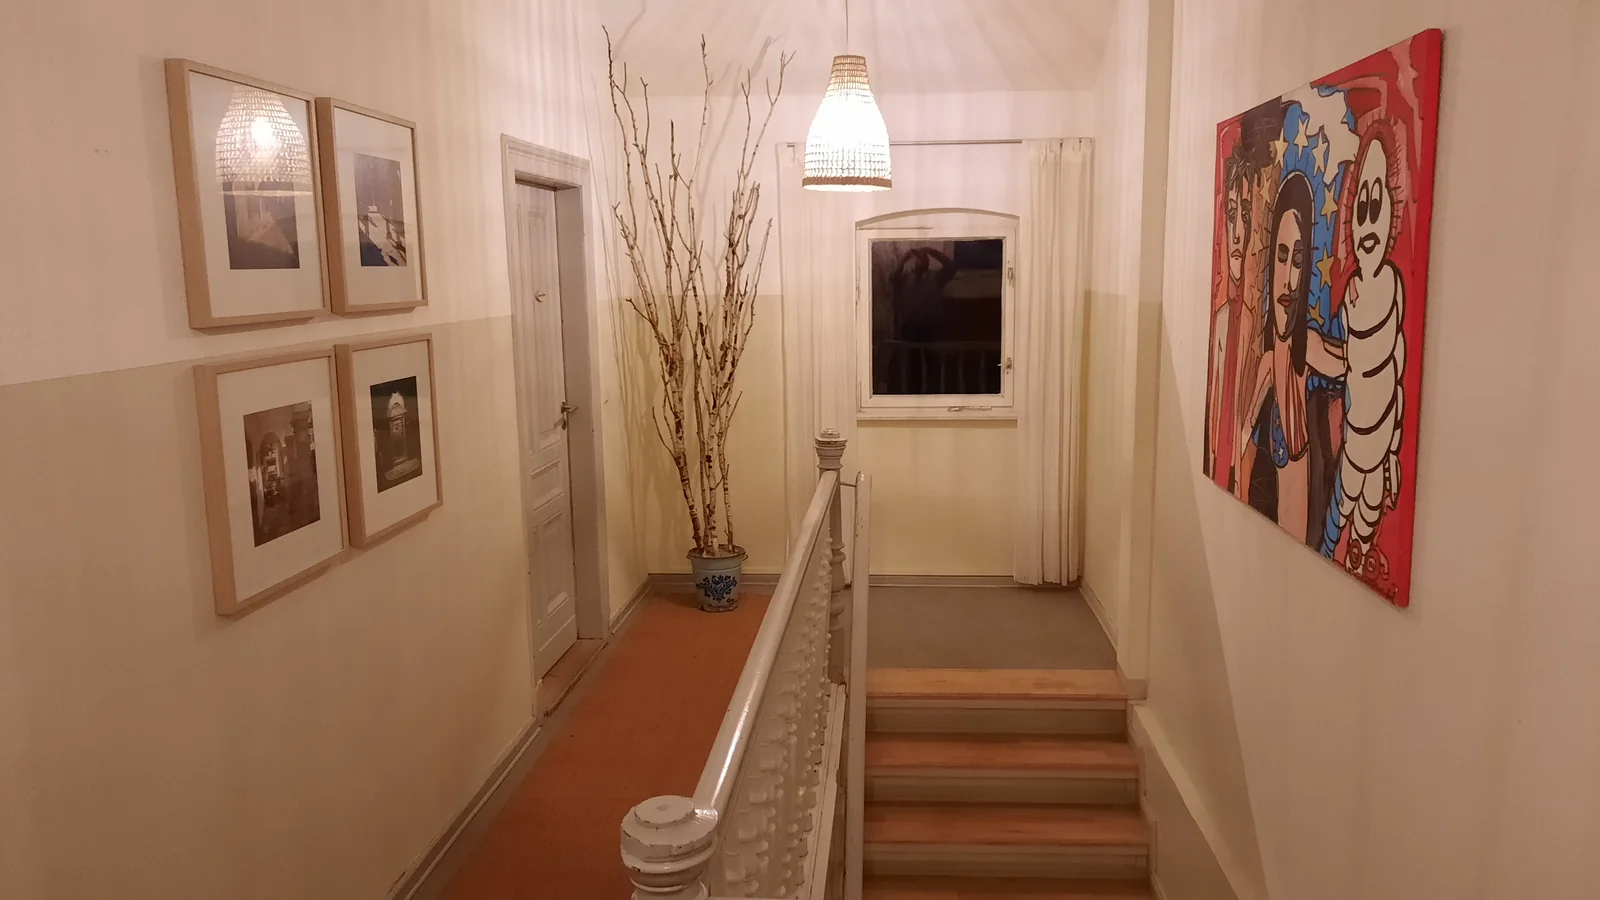
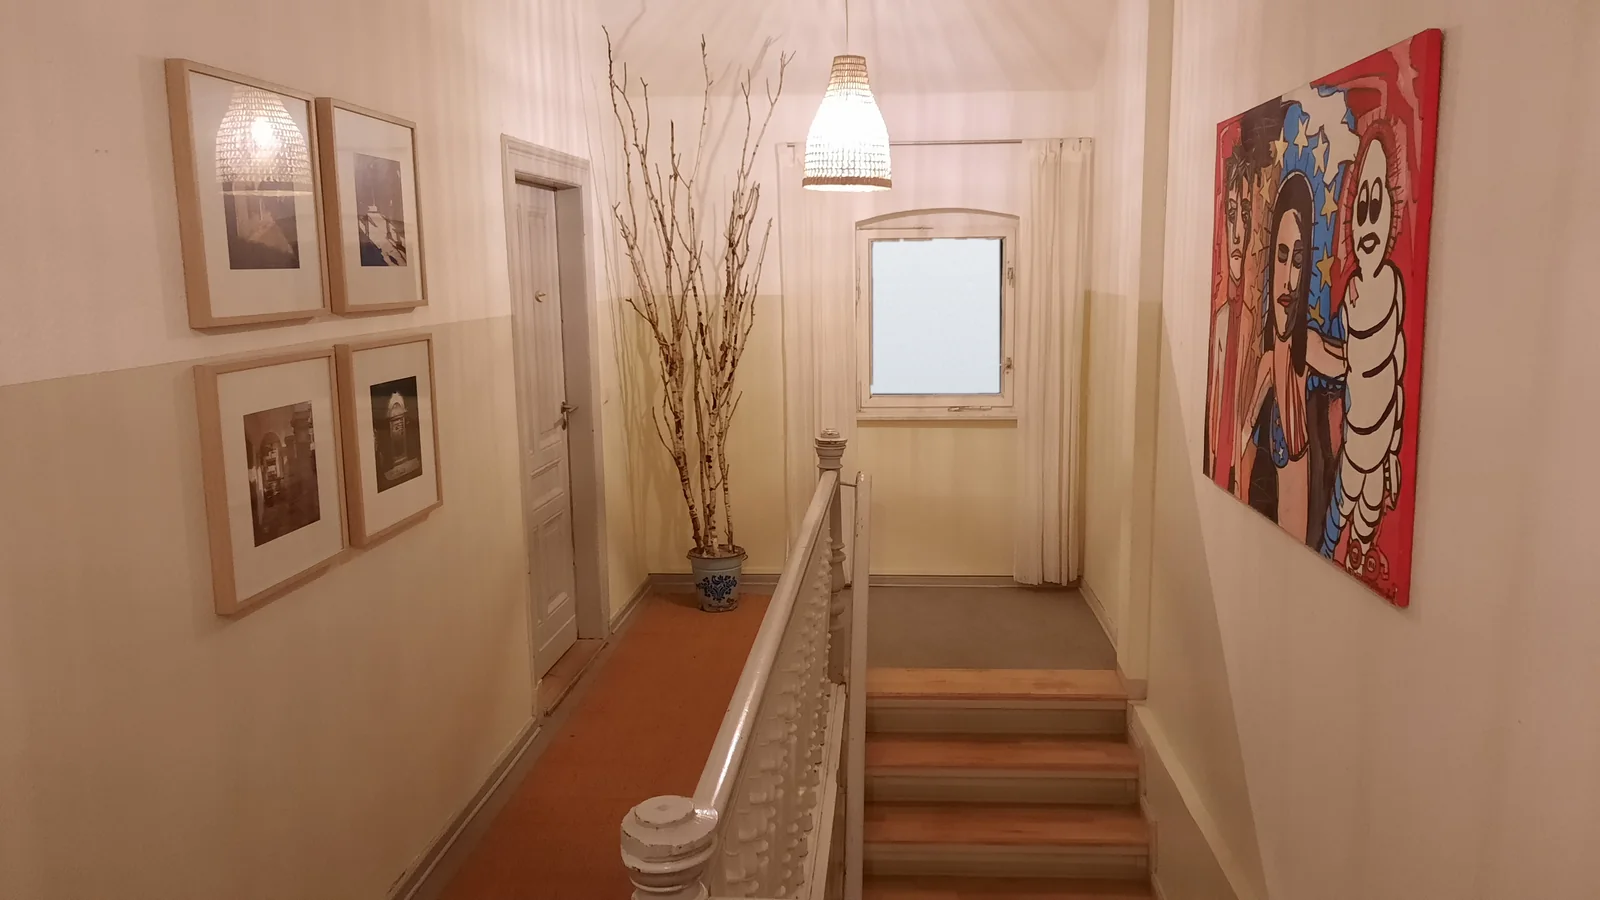
Fenster im Flurfoto aufgehellt, Suchmaschinen: Titel, Beschreibung, Suchwörter, Fragen-Abschnitt, strukturierte Daten
- Foto Treppe und Flur: Fensterglas von schwarz auf helles Tageslicht-Grau, Rahmen unverändert (#15)
- Titel und Beschreibung mit den wichtigsten Suchbegriffen, Meta-Keywords hinterlegt (#16)
- Neuer Abschnitt 06 Kurz gefragt mit sechs Fragen aus dem vorhandenen Material, Kontakt wird 07
- JSON-LD: RealEstateListing mit Adresse, Ausstattung und Angebot WE 8, FAQPage
- Englische Seite gleichgezogen, Sitemap-Datum aktualisiert

Closes #15, refs #16

Changed region(s): [[0.5312, 0.2489, 0.625, 0.4667]]

diff --git a/index.html b/index.html
@@ -3,15 +3,16 @@
 <head>
 <meta charset="utf-8">
 <meta name="viewport" content="width=device-width, initial-scale=1">
-<title>Gutshaus Kleinmenow – Wohnen in der Villa Meteor am Ziernsee</title>
-<meta name="description" content="Drei Eigentumswohnungen im Obergeschoss des ehemaligen Gutshauses Kleinmenow bei Fürstenberg/Havel. Wohnen in Gemeinschaft, 200 m vom Ziernsee, eine Bahnstunde von Berlin.">
+<title>Gutshaus Kleinmenow – Eigentumswohnungen am Ziernsee, eine Bahnstunde von Berlin</title>
+<meta name="description" content="Drei Eigentumswohnungen im Gutshaus Kleinmenow bei Fürstenberg/Havel: Wohnprojekt mit Garten, Sauna und Badesteg am Ziernsee, Bahnanbindung nach Berlin, provisionsfrei vom Eigentümer.">
+<meta name="keywords" content="Eigentumswohnung kaufen, Wohnungseigentum, Wohnung im Gutshaus, Gutshaus Kleinmenow, Villa Meteor, Immobilie Brandenburg, Immobilienkauf, Fürstenberg/Havel, Kleinmenow, Ziernsee, Seenähe, Wasserlage, Seenlandschaft, Oberhavel, Nähe Berlin, eine Stunde von Berlin, Bahnanbindung, Bahnhof Fürstenberg, RE 5, autofrei, Wohnprojekt, gemeinschaftliches Wohnen, Gemeinschaft, Baugruppe, Genossenschaft, Wohnungseigentümergemeinschaft, WEG, Zweitwohnsitz, Erstwohnsitz, Wochenendsitz, Wochenendhaus, Ferienhaus, Landleben, Homeoffice, Workation, Coworking, Garten, gärtnern, Gutspark, Balkon, Seeblick, Landschaftsblick, Sonnenuntergang, alte Bäume, Sauna, Badesteg, Bootssteg, Badestelle, Radfahren, wandern, Spaziergänge, Natur, Wald, Altbau, Architektur, Historismus, gay friendly, queer, provisionsfrei, direkt vom Eigentümer, Kapitalanlage, Geldanlage, Investition, Finanzierung">
 <link rel="canonical" href="https://gutshaus-kleinmenow.de/">
 <link rel="alternate" hreflang="de" href="https://gutshaus-kleinmenow.de/">
 <link rel="alternate" hreflang="en" href="https://gutshaus-kleinmenow.de/en/">
 <link rel="alternate" hreflang="x-default" href="https://gutshaus-kleinmenow.de/">
 <meta property="og:type" content="website">
-<meta property="og:title" content="Gutshaus Kleinmenow – Wohnen in der Villa Meteor am Ziernsee">
-<meta property="og:description" content="Drei Eigentumswohnungen im Obergeschoss des ehemaligen Gutshauses Kleinmenow. Wohnen in Gemeinschaft, 200 m vom Ziernsee, eine Bahnstunde von Berlin.">
+<meta property="og:title" content="Gutshaus Kleinmenow – Eigentumswohnungen am Ziernsee, eine Bahnstunde von Berlin">
+<meta property="og:description" content="Drei Eigentumswohnungen im Gutshaus Kleinmenow bei Fürstenberg/Havel: Wohnprojekt mit Garten, Sauna und Badesteg am Ziernsee, provisionsfrei vom Eigentümer.">
 <meta property="og:image" content="https://gutshaus-kleinmenow.de/assets/img/og.jpg">
 <meta property="og:locale" content="de_DE">
 <meta name="theme-color" content="#f3efe6" media="(prefers-color-scheme: light)">
@@ -20,6 +21,58 @@
 <link rel="preload" href="assets/fonts/MaziusDisplay-Regular.woff2" as="font" type="font/woff2" crossorigin>
 <link rel="preload" href="assets/fonts/eb-garamond-latin-wght-normal.woff2" as="font" type="font/woff2" crossorigin>
 <link rel="stylesheet" href="assets/css/site.css">
+<script type="application/ld+json">
+{
+  "@context": "https://schema.org",
+  "@graph": [
+    {
+      "@type": "RealEstateListing",
+      "name": "Gutshaus Kleinmenow – drei Eigentumswohnungen im Obergeschoss",
+      "url": "https://gutshaus-kleinmenow.de/",
+      "inLanguage": "de",
+      "datePosted": "2026-10-10",
+      "description": "Drei Eigentumswohnungen im Obergeschoss des ehemaligen Gutshauses Kleinmenow (Villa Meteor) bei Fürstenberg/Havel, 200 m vom Ziernsee, eine Bahnstunde von Berlin. Verkauf provisionsfrei direkt vom Eigentümer.",
+      "about": {
+        "@type": "Residence",
+        "name": "Villa Meteor, Gutshaus Kleinmenow",
+        "address": {
+          "@type": "PostalAddress",
+          "streetAddress": "Kleinmenower Straße 4",
+          "postalCode": "16798",
+          "addressLocality": "Fürstenberg/Havel",
+          "addressRegion": "Brandenburg",
+          "addressCountry": "DE"
+        },
+        "amenityFeature": [
+          {"@type": "LocationFeatureSpecification", "name": "Garten, ehemaliger Gutspark ca. 4.000 m²", "value": true},
+          {"@type": "LocationFeatureSpecification", "name": "Sauna", "value": true},
+          {"@type": "LocationFeatureSpecification", "name": "Ziernsee in 200 m, drei Badestellen", "value": true},
+          {"@type": "LocationFeatureSpecification", "name": "Bahnhof Fürstenberg (Havel) in 4 km, RE 5 nach Berlin", "value": true}
+        ]
+      },
+      "offers": {
+        "@type": "Offer",
+        "name": "Wohnung 8, Obergeschoss rechts zum Garten, 48,83 m² Wohnfläche",
+        "price": "185000",
+        "priceCurrency": "EUR",
+        "availability": "https://schema.org/InStock",
+        "seller": {"@type": "Person", "name": "Tim Lehmann"}
+      }
+    },
+    {
+      "@type": "FAQPage",
+      "mainEntity": [
+        {"@type": "Question", "name": "Kann man in Kleinmenow dauerhaft wohnen oder nur am Wochenende?", "acceptedAnswer": {"@type": "Answer", "text": "Beides. Einige Bewohner leben seit Jahrzehnten im Haus, andere nutzen es von Berlin aus als Wochenendsitz. Erstwohnsitz und Zweitwohnsitz sind möglich."}},
+        {"@type": "Question", "name": "Wie kommt man ohne Auto nach Kleinmenow?", "acceptedAnswer": {"@type": "Answer", "text": "Der Bahnhof Fürstenberg (Havel) ist vier Kilometer entfernt, eine Viertelstunde mit dem Rad. Von dort fährt der RE 5 stündlich ohne Umsteigen nach Berlin und in die andere Richtung an die Ostsee."}},
+        {"@type": "Question", "name": "Kann man von Kleinmenow aus arbeiten?", "acceptedAnswer": {"@type": "Answer", "text": "Zu den Gemeinschaftsflächen im Obergeschoss gehört ein Kaminzimmer mit Coworking-Platz, gemeinsames WLAN auf dem Grundstück ist geplant. Berlin ist eine Bahnstunde entfernt."}},
+        {"@type": "Question", "name": "Was wird gemeinsam genutzt?", "acceptedAnswer": {"@type": "Answer", "text": "Sauna, das rund 4.000 m² große Grundstück mit Gartenanlagen und Spielwiese, Werkstatt und Werkzeug, Holzlager und Feuerschale, der überdachte Fahrradständer und der ehemalige Speisesaal als Gemeinschaftswohnung. Die Mitnutzung des Boots- und Badestegs ist in Abstimmung mit der Steggemeinschaft geplant."}},
+        {"@type": "Question", "name": "Ist das eine Genossenschaft oder eine Baugruppe?", "acceptedAnswer": {"@type": "Answer", "text": "Rechtlich ist es klassisches Wohnungseigentum mit eigenem Grundbuchblatt, also eine Wohnungseigentümergemeinschaft. Vom Charakter her hat das Projekt etwas von einer Baugruppe, weil noch nicht alles fertig ist, und von einer Genossenschaft, weil vieles gemeinsam genutzt wird."}},
+        {"@type": "Question", "name": "Fällt eine Maklerprovision an?", "acceptedAnswer": {"@type": "Answer", "text": "Nein. Der Verkauf erfolgt provisionsfrei und direkt vom Eigentümer."}}
+      ]
+    }
+  ]
+}
+</script>
 </head>
 <body>
 <div class="wrap">
@@ -32,6 +85,7 @@
       <li><a href="#haus">Haus</a></li>
       <li><a href="#lage">Lage</a></li>
       <li><a href="#chronik">Chronik</a></li>
+      <li><a href="#fragen">Fragen</a></li>
       <li><a href="#kontakt">Kontakt</a></li>
     </ul>
   </nav>
@@ -397,8 +451,39 @@
   </div>
 </section>
 
+<section class="section" id="fragen">
+  <p class="index mono"><span class="n num">06</span><span class="l">Kurz gefragt</span></p>
+  <h2>Was die meisten zuerst wissen wollen.</h2>
+  <dl class="faq wide">
+    <div>
+      <dt>Kann man in Kleinmenow dauerhaft wohnen oder nur am Wochenende?</dt>
+      <dd>Beides. Einige Bewohner leben seit Jahrzehnten im Haus, andere nutzen es von Berlin aus als Wochenendsitz. Erstwohnsitz und Zweitwohnsitz sind möglich.</dd>
+    </div>
+    <div>
+      <dt>Wie kommt man ohne Auto nach Kleinmenow?</dt>
+      <dd>Der Bahnhof Fürstenberg (Havel) ist vier Kilometer entfernt, eine Viertelstunde mit dem Rad. Von dort fährt der RE 5 stündlich ohne Umsteigen nach Berlin und in die andere Richtung an die Ostsee.</dd>
+    </div>
+    <div>
+      <dt>Kann man von hier aus arbeiten?</dt>
+      <dd>Zu den Gemeinschaftsflächen im Obergeschoss gehört ein Kaminzimmer mit Coworking-Platz, gemeinsames WLAN auf dem Grundstück ist geplant. Berlin ist eine Bahnstunde entfernt, Homeoffice und Workation sind also machbar.</dd>
+    </div>
+    <div>
+      <dt>Was wird gemeinsam genutzt?</dt>
+      <dd>Sauna, das rund 4.000 m² große Grundstück mit Gartenanlagen und Spielwiese, Werkstatt und Werkzeug, Holzlager und Feuerschale, der überdachte Fahrradständer und der ehemalige Speisesaal als Gemeinschaftswohnung. Die Mitnutzung des Boots- und Badestegs ist in Abstimmung mit der Steggemeinschaft geplant.</dd>
+    </div>
+    <div>
+      <dt>Ist das eine Genossenschaft oder eine Baugruppe?</dt>
+      <dd>Rechtlich ist es klassisches Wohnungseigentum mit eigenem Grundbuchblatt, also eine Wohnungseigentümergemeinschaft. Vom Charakter her hat das Projekt etwas von einer Baugruppe, weil noch nicht alles fertig ist, und von einer Genossenschaft, weil vieles gemeinsam genutzt wird.</dd>
+    </div>
+    <div>
+      <dt>Fällt eine Maklerprovision an?</dt>
+      <dd>Nein. Der Verkauf erfolgt provisionsfrei und direkt vom Eigentümer.</dd>
+    </div>
+  </dl>
+</section>
+
 <section class="section" id="kontakt">
-  <p class="index mono"><span class="n num">06</span><span class="l">Kontakt</span></p>
+  <p class="index mono"><span class="n num">07</span><span class="l">Kontakt</span></p>
   <h2>Neugierig? Dann schreib uns.</h2>
   <div class="main contact">
     <p><span class="mono">Eigentümer</span>Tim Lehmann<br><a href="mailto:tim.c.lehmann@gmail.com">tim.c.lehmann@gmail.com</a><br><a href="tel:+4916097458658">0160 97458658</a></p>

diff --git a/en/index.html b/en/index.html
@@ -3,15 +3,16 @@
 <head>
 <meta charset="utf-8">
 <meta name="viewport" content="width=device-width, initial-scale=1">
-<title>Gutshaus Kleinmenow – Living in the Villa Meteor on Lake Ziernsee</title>
-<meta name="description" content="Three freehold flats on the upper floor of the former manor house Kleinmenow near Fürstenberg/Havel. Community living, 200 m from Lake Ziernsee, one hour by train from Berlin.">
+<title>Gutshaus Kleinmenow – Flats for sale on Lake Ziernsee, one train hour from Berlin</title>
+<meta name="description" content="Three freehold flats in the manor house Kleinmenow near Fürstenberg/Havel: a community project with garden, sauna and bathing jetty on Lake Ziernsee, train connection to Berlin, no agent’s commission.">
+<meta name="keywords" content="flat for sale, apartment for sale, manor house, Gutshaus Kleinmenow, Villa Meteor, property Brandenburg, Fürstenberg/Havel, Kleinmenow, Lake Ziernsee, lakeside, waterfront, lake district, near Berlin, one hour from Berlin, train connection, Fürstenberg station, RE 5, car-free, co-housing, community living, cohousing project, building group, cooperative, freehold, second home, weekend home, holiday home, country living, home office, workation, coworking, garden, gardening, manor park, balcony, lake view, sunset, old trees, sauna, bathing jetty, boat jetty, swimming spot, cycling, hiking, walks, nature, forest, period property, architecture, gay friendly, queer, no agent’s commission, directly from the owner, investment, financing">
 <link rel="canonical" href="https://gutshaus-kleinmenow.de/en/">
 <link rel="alternate" hreflang="de" href="https://gutshaus-kleinmenow.de/">
 <link rel="alternate" hreflang="en" href="https://gutshaus-kleinmenow.de/en/">
 <link rel="alternate" hreflang="x-default" href="https://gutshaus-kleinmenow.de/">
 <meta property="og:type" content="website">
-<meta property="og:title" content="Gutshaus Kleinmenow – Living in the Villa Meteor on Lake Ziernsee">
-<meta property="og:description" content="Three freehold flats on the upper floor of the former manor house Kleinmenow. Community living, 200 m from Lake Ziernsee, one hour by train from Berlin.">
+<meta property="og:title" content="Gutshaus Kleinmenow – Flats for sale on Lake Ziernsee, one train hour from Berlin">
+<meta property="og:description" content="Three freehold flats in the manor house Kleinmenow near Fürstenberg/Havel: a community project with garden, sauna and bathing jetty on Lake Ziernsee, no agent’s commission.">
 <meta property="og:image" content="https://gutshaus-kleinmenow.de/assets/img/og.jpg">
 <meta property="og:locale" content="en_GB">
 <meta name="theme-color" content="#f3efe6" media="(prefers-color-scheme: light)">
@@ -20,6 +21,58 @@
 <link rel="preload" href="../assets/fonts/MaziusDisplay-Regular.woff2" as="font" type="font/woff2" crossorigin>
 <link rel="preload" href="../assets/fonts/eb-garamond-latin-wght-normal.woff2" as="font" type="font/woff2" crossorigin>
 <link rel="stylesheet" href="../assets/css/site.css">
+<script type="application/ld+json">
+{
+  "@context": "https://schema.org",
+  "@graph": [
+    {
+      "@type": "RealEstateListing",
+      "name": "Gutshaus Kleinmenow – three freehold flats on the upper floor",
+      "url": "https://gutshaus-kleinmenow.de/en/",
+      "inLanguage": "en",
+      "datePosted": "2026-10-10",
+      "description": "Three freehold flats on the upper floor of the former manor house Kleinmenow (Villa Meteor) near Fürstenberg/Havel, 200 m from Lake Ziernsee, one train hour from Berlin. Sold directly by the owner, no agent’s commission.",
+      "about": {
+        "@type": "Residence",
+        "name": "Villa Meteor, Gutshaus Kleinmenow",
+        "address": {
+          "@type": "PostalAddress",
+          "streetAddress": "Kleinmenower Straße 4",
+          "postalCode": "16798",
+          "addressLocality": "Fürstenberg/Havel",
+          "addressRegion": "Brandenburg",
+          "addressCountry": "DE"
+        },
+        "amenityFeature": [
+          {"@type": "LocationFeatureSpecification", "name": "Garden, former manor park approx. 4,000 m²", "value": true},
+          {"@type": "LocationFeatureSpecification", "name": "Sauna", "value": true},
+          {"@type": "LocationFeatureSpecification", "name": "Lake Ziernsee 200 m away, three bathing spots", "value": true},
+          {"@type": "LocationFeatureSpecification", "name": "Fürstenberg (Havel) station 4 km away, RE 5 to Berlin", "value": true}
+        ]
+      },
+      "offers": {
+        "@type": "Offer",
+        "name": "Flat 8, upper floor right facing the garden, 48.83 m² living space",
+        "price": "185000",
+        "priceCurrency": "EUR",
+        "availability": "https://schema.org/InStock",
+        "seller": {"@type": "Person", "name": "Tim Lehmann"}
+      }
+    },
+    {
+      "@type": "FAQPage",
+      "mainEntity": [
+        {"@type": "Question", "name": "Can you live in Kleinmenow permanently, or only at weekends?", "acceptedAnswer": {"@type": "Answer", "text": "Both. Some residents have lived in the house for decades, others use it from Berlin as a weekend retreat. A main residence and a second home are both possible."}},
+        {"@type": "Question", "name": "How do you get to Kleinmenow without a car?", "acceptedAnswer": {"@type": "Answer", "text": "Fürstenberg (Havel) station is four kilometres away, a quarter of an hour by bike. From there the RE 5 runs hourly without a change to Berlin and, in the other direction, to the Baltic Sea."}},
+        {"@type": "Question", "name": "Can you work from Kleinmenow?", "acceptedAnswer": {"@type": "Answer", "text": "The common areas on the upper floor include a fireplace room with a coworking space, and shared Wi-Fi on the grounds is planned. Berlin is one train hour away."}},
+        {"@type": "Question", "name": "What is shared?", "acceptedAnswer": {"@type": "Answer", "text": "The sauna, the roughly 4,000 m² grounds with gardens and a play meadow, workshop and tools, wood store and fire bowl, the covered bicycle shed and the former dining hall as a community flat. Shared use of the boat and bathing jetty is planned in agreement with the jetty association."}},
+        {"@type": "Question", "name": "Is this a cooperative or a building group?", "acceptedAnswer": {"@type": "Answer", "text": "Legally it is conventional freehold ownership with its own land register sheet, a homeowners’ association under German law. In character the project has something of a building group, because not everything is finished yet, and of a cooperative, because much is used in common."}},
+        {"@type": "Question", "name": "Is there an agent’s commission?", "acceptedAnswer": {"@type": "Answer", "text": "No. The sale is commission-free and direct from the owner."}}
+      ]
+    }
+  ]
+}
+</script>
 </head>
 <body>
 <div class="wrap">
@@ -32,6 +85,7 @@
       <li><a href="#house">House</a></li>
       <li><a href="#location">Location</a></li>
       <li><a href="#history">History</a></li>
+      <li><a href="#questions">Questions</a></li>
       <li><a href="#contact">Contact</a></li>
     </ul>
   </nav>
@@ -397,8 +451,39 @@
   </div>
 </section>
 
+<section class="section" id="questions">
+  <p class="index mono"><span class="n num">06</span><span class="l">Quick questions</span></p>
+  <h2>What most people want to know first.</h2>
+  <dl class="faq wide">
+    <div>
+      <dt>Can you live in Kleinmenow permanently, or only at weekends?</dt>
+      <dd>Both. Some residents have lived in the house for decades, others use it from Berlin as a weekend retreat. A main residence and a second home are both possible.</dd>
+    </div>
+    <div>
+      <dt>How do you get to Kleinmenow without a car?</dt>
+      <dd>Fürstenberg (Havel) station is four kilometres away, a quarter of an hour by bike. From there the RE 5 runs hourly without a change to Berlin and, in the other direction, to the Baltic Sea.</dd>
+    </div>
+    <div>
+      <dt>Can you work from here?</dt>
+      <dd>The common areas on the upper floor include a fireplace room with a coworking space, and shared Wi-Fi on the grounds is planned. Berlin is one train hour away, so home office and workation are realistic.</dd>
+    </div>
+    <div>
+      <dt>What is shared?</dt>
+      <dd>The sauna, the roughly 4,000 m² grounds with gardens and a play meadow, workshop and tools, wood store and fire bowl, the covered bicycle shed and the former dining hall as a community flat. Shared use of the boat and bathing jetty is planned in agreement with the jetty association.</dd>
+    </div>
+    <div>
+      <dt>Is this a cooperative or a building group?</dt>
+      <dd>Legally it is conventional freehold ownership with its own land register sheet, a homeowners’ association under German law. In character the project has something of a building group, because not everything is finished yet, and of a cooperative, because much is used in common.</dd>
+    </div>
+    <div>
+      <dt>Is there an agent’s commission?</dt>
+      <dd>No. The sale is commission-free and direct from the owner.</dd>
+    </div>
+  </dl>
+</section>
+
 <section class="section" id="contact">
-  <p class="index mono"><span class="n num">06</span><span class="l">Contact</span></p>
+  <p class="index mono"><span class="n num">07</span><span class="l">Contact</span></p>
   <h2>Curious? Then write to us.</h2>
   <div class="main contact">
     <p><span class="mono">Owner</span>Tim Lehmann<br><a href="mailto:tim.c.lehmann@gmail.com">tim.c.lehmann@gmail.com</a><br><a href="tel:+4916097458658">+49 160 97458658</a></p>

diff --git a/assets/css/site.css b/assets/css/site.css
@@ -351,3 +351,9 @@ figcaption {
 .lang a[aria-current], .lang a:hover, .lang a:focus-visible { opacity: 1; }
 .flag { width: 1.4rem; height: auto; display: block; outline: 1px solid var(--rule); outline-offset: -1px; }
 .sr { position: absolute; width: 1px; height: 1px; overflow: hidden; clip: rect(0 0 0 0); white-space: nowrap; }
+
+/* Kurz gefragt */
+.faq { margin: 0; border-top: 1px solid var(--rule); }
+.faq > div { padding-block: 1rem 1.1rem; border-bottom: 1px solid var(--rule); }
+.faq dt { font-weight: 500; font-size: var(--t-1); line-height: 1.25; max-width: 30ch; }
+.faq dd { margin: 0.5rem 0 0; max-width: 62ch; }
